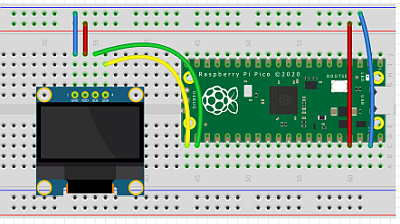
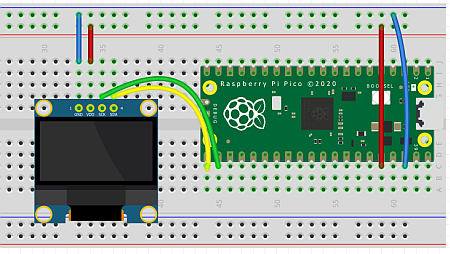
Fritzing korrigiert

diff --git a/docs/index.md b/docs/index.md
@@ -15,6 +15,7 @@ Damit die Studierenden mögliche Änderungen und Ergänzungen während des Semes
 
 - [2024-09-13] Kapitel 1 - 4 sind einsatzbereit. Kapitel 5 ergibt sich im laufenden Semester auch aufgrund der studentischen Interessen.
 - [2024-09-16] Tippfehler und favicon korrigiert.
+- [2024-09-25] Tippfehler und "Schaltpläne" (Fritzing) in Kap. 3.4, 3.5 und 3.6 korrigiert.
 
 ### Danksagung
 Ein besonderer Dank geht an **Jörg Strick**, der viele Jahre und viel Energie aufbrachte, um mich für Python und die Verbindung mit "Elektronik" zu begeistern. Danke! 

diff --git a/docs/2InbetriebnahmeUndBasisinfos/2.1Inbetriebnahme.md b/docs/2InbetriebnahmeUndBasisinfos/2.1Inbetriebnahme.md
@@ -86,7 +86,7 @@ Wer bei der Installation unsicher ist, sollte die Installation im ersten Praktik
     ![Thonny Einrichten](media/Thonny7.jpg)<br><br>
 
 
-6. Jetzt sehen wir ein leeres Thonny-Fenster. und müssen Thonny neu starten.
+6. Jetzt sehen wir ein leeres Thonny-Fenster und müssen Thonny neu starten.
 
     ![Thonny Einrichten](media/Thonny8.jpg)<br><br>
 
